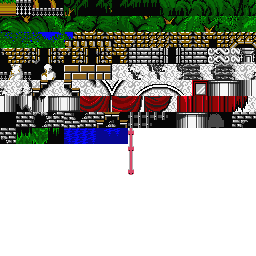
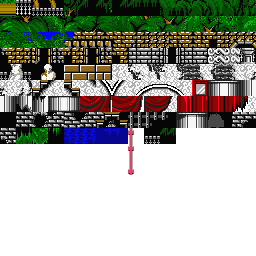
Tiles, Sprites and 1st Stage
- Changed some sprites of the title's mentioned things

Changed region(s): [[0.5625, 0.5, 0.6875, 0.5625]]

diff --git a/src/Scene.cpp b/src/Scene.cpp
@@ -79,15 +79,15 @@ AppStatus Scene::LoadLevel(int stage)
 		//TODO: Fill stage with the adequate tiles
 		size = LEVEL_WIDTH * LEVEL_HEIGHT;
 		int map[] = {
-				10,   0,   0,   0,   0,   0,   0,   0,   0,   0,   0,   0,   0,   0,   0,  17,  
-				 9,  11,  12,   0,   0,  13,   0,   0,  13,  17,  18,  17,  18,   0,   0,   0,  
-				10,   0,   0,   0,   0,   0,   0,   0,   0,   0,   0,   0,   0,   0,   0,   0,  
-				 9,   0,   0,   0,   0,   0,   0,   0,   0,   0,   0,   0,   0,   0,   0,   0,  
-				10,   0,   0,   0,   0,   0,   0,   0,   0,   0,   0,   0,   0,   0,   0,  22,  
-				 9,   0,   0,   0,   0,   0,   0,   0,   0,   0,   0,   0,   0,   0,   0,  20,  
-				10,   0,  -1,  -1,   0,   0,   0,   0,   0,   0,   0,   0,   0,   0,   0,  20,  
-				 9,   0, 100,  -1,   0,   0,   0,   0,   0,   0,   0,   0,   0,   0,   0,  20,  
-				10,  17,  18,  17,  18,  13,   0,   0,   0,   0,  13,  17,  18,  13,   0,  20,  
+				33,   34,   35,   36,   33,   34,   35,   36,   33,   34,  35,   36,   33,   34,   35,  36,  
+				29,  30,  31,   32,   29,  30,  31,   32,  29,  30,  31,   32,  29,  30,  31,   32,
+				25,   26,   27,   28,   25,   26,   27,   28,   25,   26,   27,   28,   25,   26,   27,   28,
+				21,   22,   23,   24,    21,   22,   23,   24,    21,   22,   23,   24,    21,   22,   23,   24,
+				17,   18,   19,   20,   17,   18,   19,   20,   17,   18,   19,   20,  17,   18,   19,   20,
+				13,   14,   10,   9,   12,   14,   15,   16,   13,   14,   15,   16,   0,   0,   0,  0,
+				5,   6,  67,  68,   8,   7,   5,   7,   5,   7,  5,   7,   0,   0,   0,  0,
+				3,   100, 65,  66,   0,   0,   4,   0,   4,   0,   4,   0,   0,   0,   3, 0,
+				2,  2,  62,  63,  64,  2,  2,  2,   2,  2,  2,  2,  64,  2,  2,  2,
 				1,   1,   1,   1,   1,  1,  1,  1,  1,  1,  1,   1,   1,   1,   1,  1,
 				0,   0,   0,   0,   0,  0,  0,  0,  0,  0,  0,   0,   0,	0,	0,	0
 		};

diff --git a/src/TileMap.cpp b/src/TileMap.cpp
@@ -99,6 +99,23 @@ void TileMap::InitTileDictionary()
 	dict_rect[(int)Tile::BLOCK_COLUMN_STATUE_2] = { 14 * n, n * 3, n, n };
 	dict_rect[(int)Tile::BLOCK_COLUMN_STATUE_3] = { 15 * n, n * 3, n, n };
 
+	dict_rect[(int)Tile::BLOCK_COLUMN_STATUE_4] = { 0,  n * 4, n, n };
+	dict_rect[(int)Tile::BLOCK_COLUMN_STATUE_5] = { n,  n * 4, n, n };
+	dict_rect[(int)Tile::BLOCK_COLUMN_STATUE_6] = { 2 * n, n * 4, n, n };
+	dict_rect[(int)Tile::BLOCK_COLUMN_STATUE_7] = { 3 * n, n * 4, n, n };
+	dict_rect[(int)Tile::BLOCK_PLATFORM_1] = { 4 * n, n * 4, n, n };
+	dict_rect[(int)Tile::BLOCK_PLATFORM_2] = { 5 * n, n * 4, n, n };
+	dict_rect[(int)Tile::BLOCK_PLATFORM_3] = { 6 * n, n * 4, n, n };
+	dict_rect[(int)Tile::BLOCK_WHITE_WALL] = { 7 * n, n * 4, n, n };
+	dict_rect[(int)Tile::BLOCK_WHITE_WALL_DIRT_1] = { 8 * n, n * 4, n, n };
+	dict_rect[(int)Tile::BLOCK_WHITE_WALL_DIRT_2] = { 9 * n, n * 4, n, n };
+	dict_rect[(int)Tile::BLOCK_WHITE_WALL_DIRT_3] = { 10 * n, n * 4, n, n };
+	dict_rect[(int)Tile::BLOCK_WHITE_WALL_DIRT_4] = { 11 * n, n * 4, n, n };
+	dict_rect[(int)Tile::BLOCK_WHITE_WALL_DIRT_5] = { 12 * n, n * 4, n, n };
+	dict_rect[(int)Tile::BLOCK_WHITE_WALL_DIRT_6] = { 13 * n, n * 4, n, n };
+	dict_rect[(int)Tile::BLOCK_WHITE_WALL_DIRT_7] = { 14 * n, n * 4, n, n };
+	dict_rect[(int)Tile::BLOCK_WHITE_WALL_DIRT_8] = { 15 * n, n * 4, n, n };
+
 }
 AppStatus TileMap::Initialise()
 {

diff --git a/src/TileMap.h b/src/TileMap.h
@@ -29,6 +29,11 @@ enum class Tile {
 	BLOCK_WALL_INSIDE_1, BLOCK_WALL_INSIDE_2, BLOCK_WALL_INSIDE_WINDOW_1, BLOCK_WALL_INSIDE_WINDOW_2,
 	BLOCK_WALL_INSIDE_3, BLOCK_COLUMN_STATUE_1, BLOCK_COLUMN_STATUE_2, BLOCK_COLUMN_STATUE_3,
 
+	BLOCK_COLUMN_STATUE_4, BLOCK_COLUMN_STATUE_5, BLOCK_COLUMN_STATUE_6, BLOCK_COLUMN_STATUE_7,
+	BLOCK_PLATFORM_1, BLOCK_PLATFORM_2, BLOCK_PLATFORM_3, BLOCK_WHITE_WALL, 
+	BLOCK_WHITE_WALL_DIRT_1, BLOCK_WHITE_WALL_DIRT_2, BLOCK_WHITE_WALL_DIRT_3, BLOCK_WHITE_WALL_DIRT_4, 
+	BLOCK_WHITE_WALL_DIRT_5, BLOCK_WHITE_WALL_DIRT_6, BLOCK_WHITE_WALL_DIRT_7, BLOCK_WHITE_WALL_DIRT_8,
+
 	//TODO Add the rest of the blocks
 
 	
